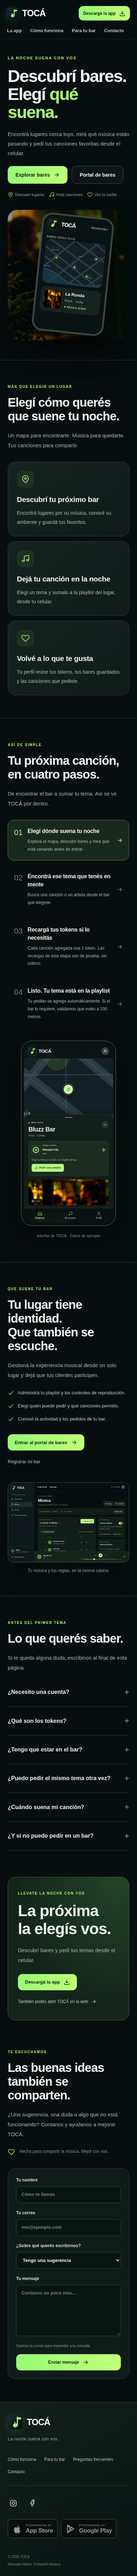
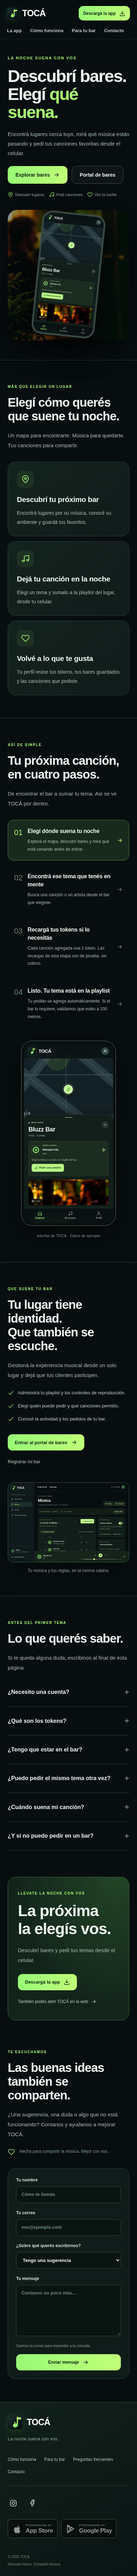
Apply current app screen to the homepage phone

Changed region(s): [[0.2769, 0.0623, 0.8308, 0.1245]]

diff --git a/web/sw.js b/web/sw.js
@@ -1,4 +1,4 @@
-const CACHE="toca-shell-d42be52829d36b7f";const SHELL=["/", "/index.html", "/manifest.webmanifest", "/assets/icon.svg", "/styles.css", "/toca.css?v=admin-width-1", "/toca-admin-clean.css?v=1735", "/toca-dashboard-controls.css?v=1737", "/toca-mibar-v174.css?v=174", "/toca-hours-v175.css?v=176", "/toca-v180.css?v=180", "/toca-map-credits-v181.css?v=181", "/toca-location-v184.css?v=184", "/toca-v184.css?v=184", "/toca-v185.css?v=185", "/toca-location-v1810.css?v=1810", "/toca-description-v1811.css?v=1811", "/toca-artwork-v1813.css?v=1813", "/toca-now-v1816.css?v=1816", "/toca-playlist-v1820.css?v=1820", "/toca-playlist-scroll-v1821.css?v=1821", "/toca-how-v1823.css?v=1823", "/toca-customer-v1826.css?v=1826", "/toca-presence-v1827.css?v=1827", "/toca-access-layout-v1829.css?v=1829", "/toca-cleanup-v1830.css?v=1830", "/toca-mi-bar-cards-v1839.css?v=1839", "/toca-spacing-v1840.css?v=1840", "/toca-profile-v1841.css?v=1841", "/toca-map-hover-v1845.css?v=1845", "/toca-google-v1847.css?v=1847", "/admin-profile.css?v=1", "/account.css?v=1", "/music-cabina.css?v=number-heading-1", "/venue-import.css?v=bio-hours-1", "/venue-onboarding.css?v=1", "/venue-profile.css?v=admin-width-1", "/venue-gallery.css?v=1", "/customer-wallet.css?v=brand-colors-3", "/bar-dashboard.css?v=1", "/map-place-panel.css?v=5", "/landing.css?v=1", "/config.js?v=marketing-1", "/assets/qr.js", "/toca-hours-v175.js?v=176", "/request-sync.js?v=redirect-2", "/app.js?v=resume-after-topup-3", "/map-place-panel.js?v=5", "/toca-map-credits-v181.js?v=181", "/toca-ui.js?v=landing-2", "/bar-dashboard.js?v=1", "/venue-gallery.js?v=1", "/customer-wallet.js?v=resume-after-topup-2", "/toca-customer-v1826.js?v=account-layout-2", "/live-music.js?v=1816", "/venue-location.js?v=onboarding-1", "/toca-location-v1828.js?v=1828", "/toca-v17.js?v=venue-gallery-1", "/toca-v1738.js?v=1738", "/toca-v1739.js?v=1739", "/toca-artwork-v1813.js?v=1813", "/toca-now-v1816.js?v=1816", "/toca-playlist-v1820.js?v=1821", "/toca-presence-v1827.js?v=presence-recovery-1", "/toca-admin-access-v1829.js?v=distance-1", "/toca-cleanup-v1830.js?v=1830", "/toca-mi-bar-cards-v1839.js?v=1839", "/toca-profile-v1841.js?v=tokens-1", "/toca-google-v1847.js?v=1847b", "/account.js?v=2", "/map-loader.js?v=distance-map-1", "/landing.js?v=1", "/runtime.js?v=3", "/admin-profile.js?v=1", "/bio-hours.js?v=1", "/venue-import.js?v=profile-sections-1", "/music-cabina.js?v=number-heading-1", "/music-cabina-drag.js?v=drag-2", "/music-edit-intent.js?v=1", "/music-playback.js?v=1", "/admin-music.js?v=playlist-edits-3", "/venue-onboarding.js?v=profile-sections-1", "/venue-profile.js?v=hours-2", "/assets/toca-home-map.svg", "/assets/venues/bar-1.webp", "/assets/venues/bar-2.webp", "/assets/venues/bar-3.webp", "/assets/venues/bar-4.webp", "/assets/venues/bar-5.webp", "/assets/venues/bar-6.webp", "/assets/landing/explore.png", "/assets/landing/search.png", "/assets/landing/tokens.png", "/assets/landing/success.png", "/assets/landing/admin-music.png"];
+const CACHE="toca-shell-4988d1a72b8dd418";const SHELL=["/", "/index.html", "/manifest.webmanifest", "/assets/icon.svg", "/styles.css", "/toca.css?v=admin-width-1", "/toca-admin-clean.css?v=1735", "/toca-dashboard-controls.css?v=1737", "/toca-mibar-v174.css?v=174", "/toca-hours-v175.css?v=176", "/toca-v180.css?v=180", "/toca-map-credits-v181.css?v=181", "/toca-location-v184.css?v=184", "/toca-v184.css?v=184", "/toca-v185.css?v=185", "/toca-location-v1810.css?v=1810", "/toca-description-v1811.css?v=1811", "/toca-artwork-v1813.css?v=1813", "/toca-now-v1816.css?v=1816", "/toca-playlist-v1820.css?v=1820", "/toca-playlist-scroll-v1821.css?v=1821", "/toca-how-v1823.css?v=1823", "/toca-customer-v1826.css?v=1826", "/toca-presence-v1827.css?v=1827", "/toca-access-layout-v1829.css?v=1829", "/toca-cleanup-v1830.css?v=1830", "/toca-mi-bar-cards-v1839.css?v=1839", "/toca-spacing-v1840.css?v=1840", "/toca-profile-v1841.css?v=1841", "/toca-map-hover-v1845.css?v=1845", "/toca-google-v1847.css?v=1847", "/admin-profile.css?v=1", "/account.css?v=1", "/music-cabina.css?v=number-heading-1", "/venue-import.css?v=bio-hours-1", "/venue-onboarding.css?v=1", "/venue-profile.css?v=admin-width-1", "/venue-gallery.css?v=1", "/customer-wallet.css?v=brand-colors-3", "/bar-dashboard.css?v=1", "/map-place-panel.css?v=5", "/landing.css?v=phone-2", "/config.js?v=marketing-1", "/assets/qr.js", "/toca-hours-v175.js?v=176", "/request-sync.js?v=redirect-2", "/app.js?v=resume-after-topup-3", "/map-place-panel.js?v=5", "/toca-map-credits-v181.js?v=181", "/toca-ui.js?v=landing-2", "/bar-dashboard.js?v=1", "/venue-gallery.js?v=1", "/customer-wallet.js?v=resume-after-topup-2", "/toca-customer-v1826.js?v=account-layout-2", "/live-music.js?v=1816", "/venue-location.js?v=onboarding-1", "/toca-location-v1828.js?v=1828", "/toca-v17.js?v=venue-gallery-1", "/toca-v1738.js?v=1738", "/toca-v1739.js?v=1739", "/toca-artwork-v1813.js?v=1813", "/toca-now-v1816.js?v=1816", "/toca-playlist-v1820.js?v=1821", "/toca-presence-v1827.js?v=presence-recovery-1", "/toca-admin-access-v1829.js?v=distance-1", "/toca-cleanup-v1830.js?v=1830", "/toca-mi-bar-cards-v1839.js?v=1839", "/toca-profile-v1841.js?v=tokens-1", "/toca-google-v1847.js?v=1847b", "/account.js?v=2", "/map-loader.js?v=distance-map-1", "/landing.js?v=phone-2", "/runtime.js?v=3", "/admin-profile.js?v=1", "/bio-hours.js?v=1", "/venue-import.js?v=profile-sections-1", "/music-cabina.js?v=number-heading-1", "/music-cabina-drag.js?v=drag-2", "/music-edit-intent.js?v=1", "/music-playback.js?v=1", "/admin-music.js?v=playlist-edits-3", "/venue-onboarding.js?v=profile-sections-1", "/venue-profile.js?v=hours-2", "/assets/toca-home-map.svg", "/assets/venues/bar-1.webp", "/assets/venues/bar-2.webp", "/assets/venues/bar-3.webp", "/assets/venues/bar-4.webp", "/assets/venues/bar-5.webp", "/assets/venues/bar-6.webp", "/assets/landing/explore.png", "/assets/landing/search.png", "/assets/landing/tokens.png", "/assets/landing/success.png", "/assets/landing/admin-music.png"];
 self.addEventListener('install',e=>e.waitUntil(caches.open(CACHE).then(c=>c.addAll(SHELL)).then(()=>self.skipWaiting())));
 self.addEventListener('activate',e=>e.waitUntil(caches.keys().then(keys=>Promise.all(keys.filter(k=>k.startsWith('toca-shell-')&&k!==CACHE).map(k=>caches.delete(k)))).then(()=>self.clients.claim())));
 self.addEventListener('fetch',e=>{const u=new URL(e.request.url);if(e.request.method!=='GET'||u.origin!==location.origin||u.pathname.startsWith('/api/'))return;

diff --git a/web/prototypes/home-phone/index.html b/web/prototypes/home-phone/index.html
@@ -1,3 +1,1 @@
-<!doctype html><html lang="es"><head><meta charset="utf-8"><meta name="viewport" content="width=device-width,initial-scale=1"><title>TOCÁ · Propuesta del celular de inicio</title><style>*{box-sizing:border-box}body{margin:0;background:#080e10;color:#c5d8c9;font:13px system-ui}header{min-height:52px;padding:12px 24px;display:flex;align-items:center;justify-content:space-between;gap:20px;border-bottom:1px solid #36563b;background:#122318}header strong{color:#b7fa85}header a{color:#b7fa85;text-decoration:none}iframe{display:block;border:0;width:100%;height:calc(100dvh - 52px)}</style></head><body><header><span><strong>Propuesta del celular.</strong> El inicio actual conserva la ilustración anterior.</span><a href="/#/">Ver inicio actual ↗</a></header><iframe title="Inicio de TOCÁ con propuesta de pantalla mobile" src="/#/"></iframe><script>
-const frame=document.querySelector('iframe');frame.addEventListener('load',()=>{const doc=frame.contentDocument;function paint(){const phone=doc.querySelector('.toca-hero-phone');if(!phone||phone.dataset.previewPhone)return;phone.dataset.previewPhone='true';phone.innerHTML='<img src="/assets/landing/explore.png" width="390" height="780" alt="Propuesta: pantalla actual de TOCÁ para explorar bares" style="display:block;width:100%;height:100%;object-fit:cover;border-radius:27px">';phone.style.padding='0';phone.style.height=frame.clientWidth>760?'516px':'350px';phone.style.width=frame.clientWidth>760?'264px':'180px';phone.style.top=frame.clientWidth>760?'16px':'8px';}paint();new MutationObserver(paint).observe(doc.getElementById('app'),{childList:true});});
-</script></body></html>
+<!doctype html><html lang="es"><head><meta charset="utf-8"><meta name="viewport" content="width=device-width,initial-scale=1"><title>TOCÁ · Celular de inicio</title><style>*{box-sizing:border-box}body{margin:0;background:#080e10;color:#c5d8c9;font:13px system-ui}header{min-height:52px;padding:12px 24px;display:flex;align-items:center;justify-content:space-between;gap:20px;border-bottom:1px solid #36563b;background:#122318}header strong{color:#b7fa85}header a{color:#b7fa85;text-decoration:none}iframe{display:block;border:0;width:100%;height:calc(100dvh - 52px)}</style></head><body><header><span><strong>Celular de inicio.</strong> Esta pantalla ya está aplicada en la página principal.</span><a href="/#/">Ver inicio actual ↗</a></header><iframe title="Inicio de TOCÁ con la pantalla actual de la app" src="/#/"></iframe></body></html>

diff --git a/web/landing.js b/web/landing.js
@@ -1,4 +1,4 @@
-/* Public TOCÁ site. Hero phone remains unchanged until its separate preview is approved. */
+/* Public TOCÁ site with screenshots of the current app. */
 (() => {
  'use strict';
  const sections=['inicio','la-app','como-funciona','para-bares','preguntas','descargar','contacto'];
@@ -24,6 +24,8 @@
  tocaLanding=function(){
   previousLanding();const root=document.querySelector('.toca-landing');if(!root)return;
   root.id='inicio';root.classList.add('landing-expanded');
+  const phone=root.querySelector('.toca-hero-phone');phone.classList.add('toca-hero-phone-app');
+  phone.innerHTML='<img src="/assets/landing/explore.png" width="390" height="780" alt="Pantalla de TOCÁ: mapa de bares con la ficha del local y la canción que está sonando" loading="eager" decoding="async" fetchpriority="high">';
   root.querySelector('.toca-landing-header').innerHTML=`${brand()}<nav aria-label="Secciones de inicio">${anchor('la-app','La app')}${anchor('como-funciona','Cómo funciona')}${anchor('para-bares','Para tu bar')}${anchor('contacto','Contacto')}</nav>${downloadButton()}`;
   const logo=root.querySelector('.toca-landing-header .toca-brand');logo.href='#/?section=inicio';logo.dataset.homeAnchor='inicio';logo.setAttribute('aria-label','TOCÁ · Inicio');
   root.querySelector('.toca-landing-hero').setAttribute('aria-label','Descubrí TOCÁ');

diff --git a/web/landing.css b/web/landing.css
@@ -6,6 +6,9 @@
 .landing-expanded .toca-landing-header nav a{color:#b8c9bf;white-space:nowrap;text-decoration:none}.landing-expanded .toca-landing-header nav a:hover{color:var(--lime)}
 .landing-expanded .toca-landing-header .toca-btn{font-size:13px;min-height:44px;white-space:nowrap;padding:12px 17px}
 .landing-expanded .toca-landing-hero{max-width:1280px;min-height:704px;padding:64px 24px 90px;gap:58px}
+.landing-expanded .toca-hero-phone-app{width:264px;height:514px;top:16px;padding:0}
+.toca-hero-phone-app>img{display:block;width:100%;height:100%;object-fit:cover}
+@media(max-width:760px){.landing-expanded .toca-hero-phone-app{width:180px;height:350px;top:8px}}
 .landing-expanded .toca-hero-copy h1{font-size:clamp(44px,5.4vw,72px);line-height:1.04;letter-spacing:-2.9px;margin:20px 0 23px}
 .landing-expanded .toca-hero-copy>p{font-size:17px;line-height:1.8;max-width:510px;color:var(--landing-muted)}
 .landing-expanded .toca-trust{flex-wrap:wrap;gap:16px;font-size:11px}

diff --git a/web/index.html b/web/index.html
@@ -58,7 +58,7 @@
   <link rel="stylesheet" href="/customer-wallet.css?v=brand-colors-3" />
   <link rel="stylesheet" href="/bar-dashboard.css?v=1" />
   <link rel="stylesheet" href="/map-place-panel.css?v=5" />
-  <link rel="stylesheet" href="/landing.css?v=1" />
+  <link rel="stylesheet" href="/landing.css?v=phone-2" />
 </head>
 <body>
   <div id="app"></div>
@@ -92,7 +92,7 @@
   <script src="/toca-google-v1847.js?v=1847b" defer></script>
   <script src="/account.js?v=2" defer></script>
   <script src="/map-loader.js?v=distance-map-1" defer></script>
-  <script src="/landing.js?v=1" defer></script>
+  <script src="/landing.js?v=phone-2" defer></script>
   <script src="/runtime.js?v=3" defer></script>
   <script src="/admin-profile.js?v=1" defer></script>
   <script src="/bio-hours.js?v=1" defer></script>

diff --git a/scripts/test-landing.py b/scripts/test-landing.py
@@ -25,7 +25,9 @@ try:
     route.fulfill(content_type='application/json',body=json.dumps(result),headers={'Access-Control-Allow-Origin':'*'})
    page.route('http://localhost:8080/**',api);page.route('https://**/*',lambda r:r.abort())
    page.goto(BASE+'/#/');root=page.locator('.landing-expanded');expect(root).to_be_visible()
-   assert root.locator('main').count()==1 and root.locator('.toca-hero-phone .toca-mini-map').count()==1,'The unapproved hero phone must remain unchanged'
+   assert root.locator('main').count()==1 and root.locator('.toca-hero-phone .toca-mini-map').count()==0
+   phone=root.locator('.toca-hero-phone-app img');expect(phone).to_have_attribute('src','/assets/landing/explore.png')
+   page.wait_for_function("document.querySelector('.toca-hero-phone-app img').naturalWidth===390")
    assert page.evaluate('document.documentElement.scrollHeight>3500')
    root.evaluate('(node)=>node.__kept=true')
    page.locator('.toca-landing-header [data-home-anchor="como-funciona"]').click();expect(page).to_have_url(BASE+'/#/?section=como-funciona')
@@ -60,7 +62,7 @@ try:
    assert page.evaluate('document.documentElement.scrollWidth<=innerWidth'),width
    page.screenshot(path=str(OUT/f'inicio-{width}.png'),full_page=True)
    if width==1440:
-    page.goto(BASE+'/prototypes/home-phone/');frame=page.frame_locator('iframe');expect(frame.locator('[data-preview-phone] img')).to_be_visible();page.wait_for_timeout(200)
+    page.goto(BASE+'/prototypes/home-phone/');frame=page.frame_locator('iframe');expect(frame.locator('.toca-hero-phone-app img')).to_be_visible();page.wait_for_timeout(200)
     frame.locator('.toca-landing-hero').screenshot(path=str(OUT/'inicio-celular-propuesta.png'))
    assert not errors,errors
    context.close();print('PASS landing anchors, history, actual walkthrough images, keyboard, contact retry, local QR and responsive layout:',width,flush=True)

diff --git a/docs/INICIO.md b/docs/INICIO.md
@@ -8,9 +8,9 @@ Los enlaces de la cabecera y el pie llevan a secciones de la misma página media
 
 - [Inicio en escritorio](previews/inicio-1440.png)
 - [Inicio en celular](previews/inicio-390.png)
-- [Propuesta del teléfono de la portada](previews/inicio-celular-propuesta.png)
+- [Teléfono de la portada](previews/inicio-celular-propuesta.png)
 
-La ilustración del teléfono de inicio **permanece sin reemplazar**. La propuesta se puede recorrer por separado en `http://localhost:5173/prototypes/home-phone/`: carga la página en un iframe y cambia únicamente su teléfono por una captura del mapa y la ficha del bar. La captura usa un mapa ilustrativo, una portada del proyecto y datos de ejemplo.
+El teléfono de inicio muestra una captura de la interfaz actual: mapa, ficha del bar, canción que está sonando, botón para pedir temas y navegación inferior. La captura usa un mapa ilustrativo, una portada del proyecto y datos de ejemplo. La ruta `http://localhost:5173/prototypes/home-phone/` conserva una vista del mismo inicio en un iframe, sin modificaciones adicionales.
 
 ## Descarga y redes
 
